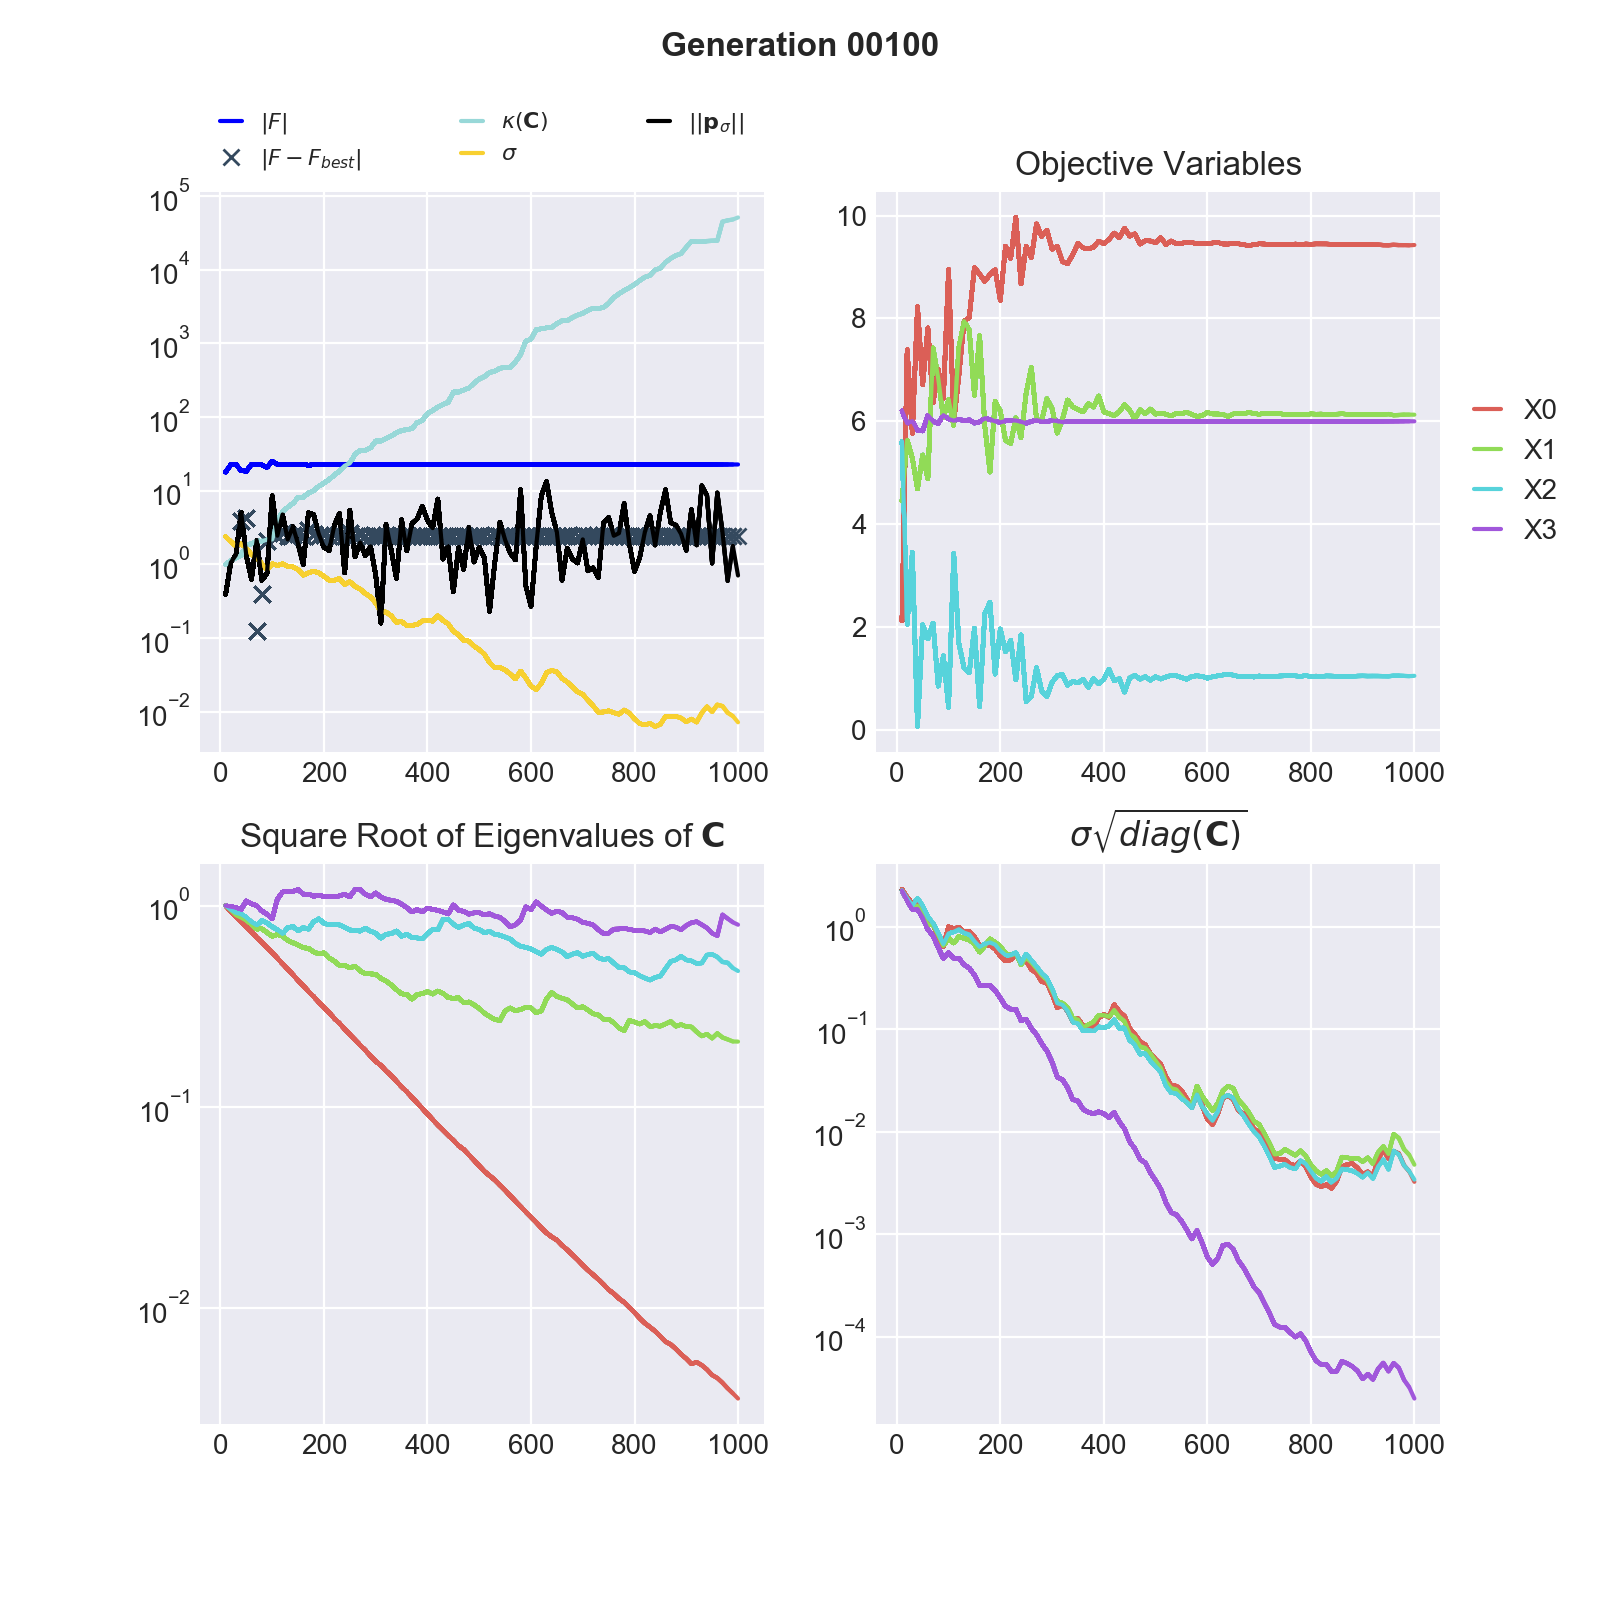
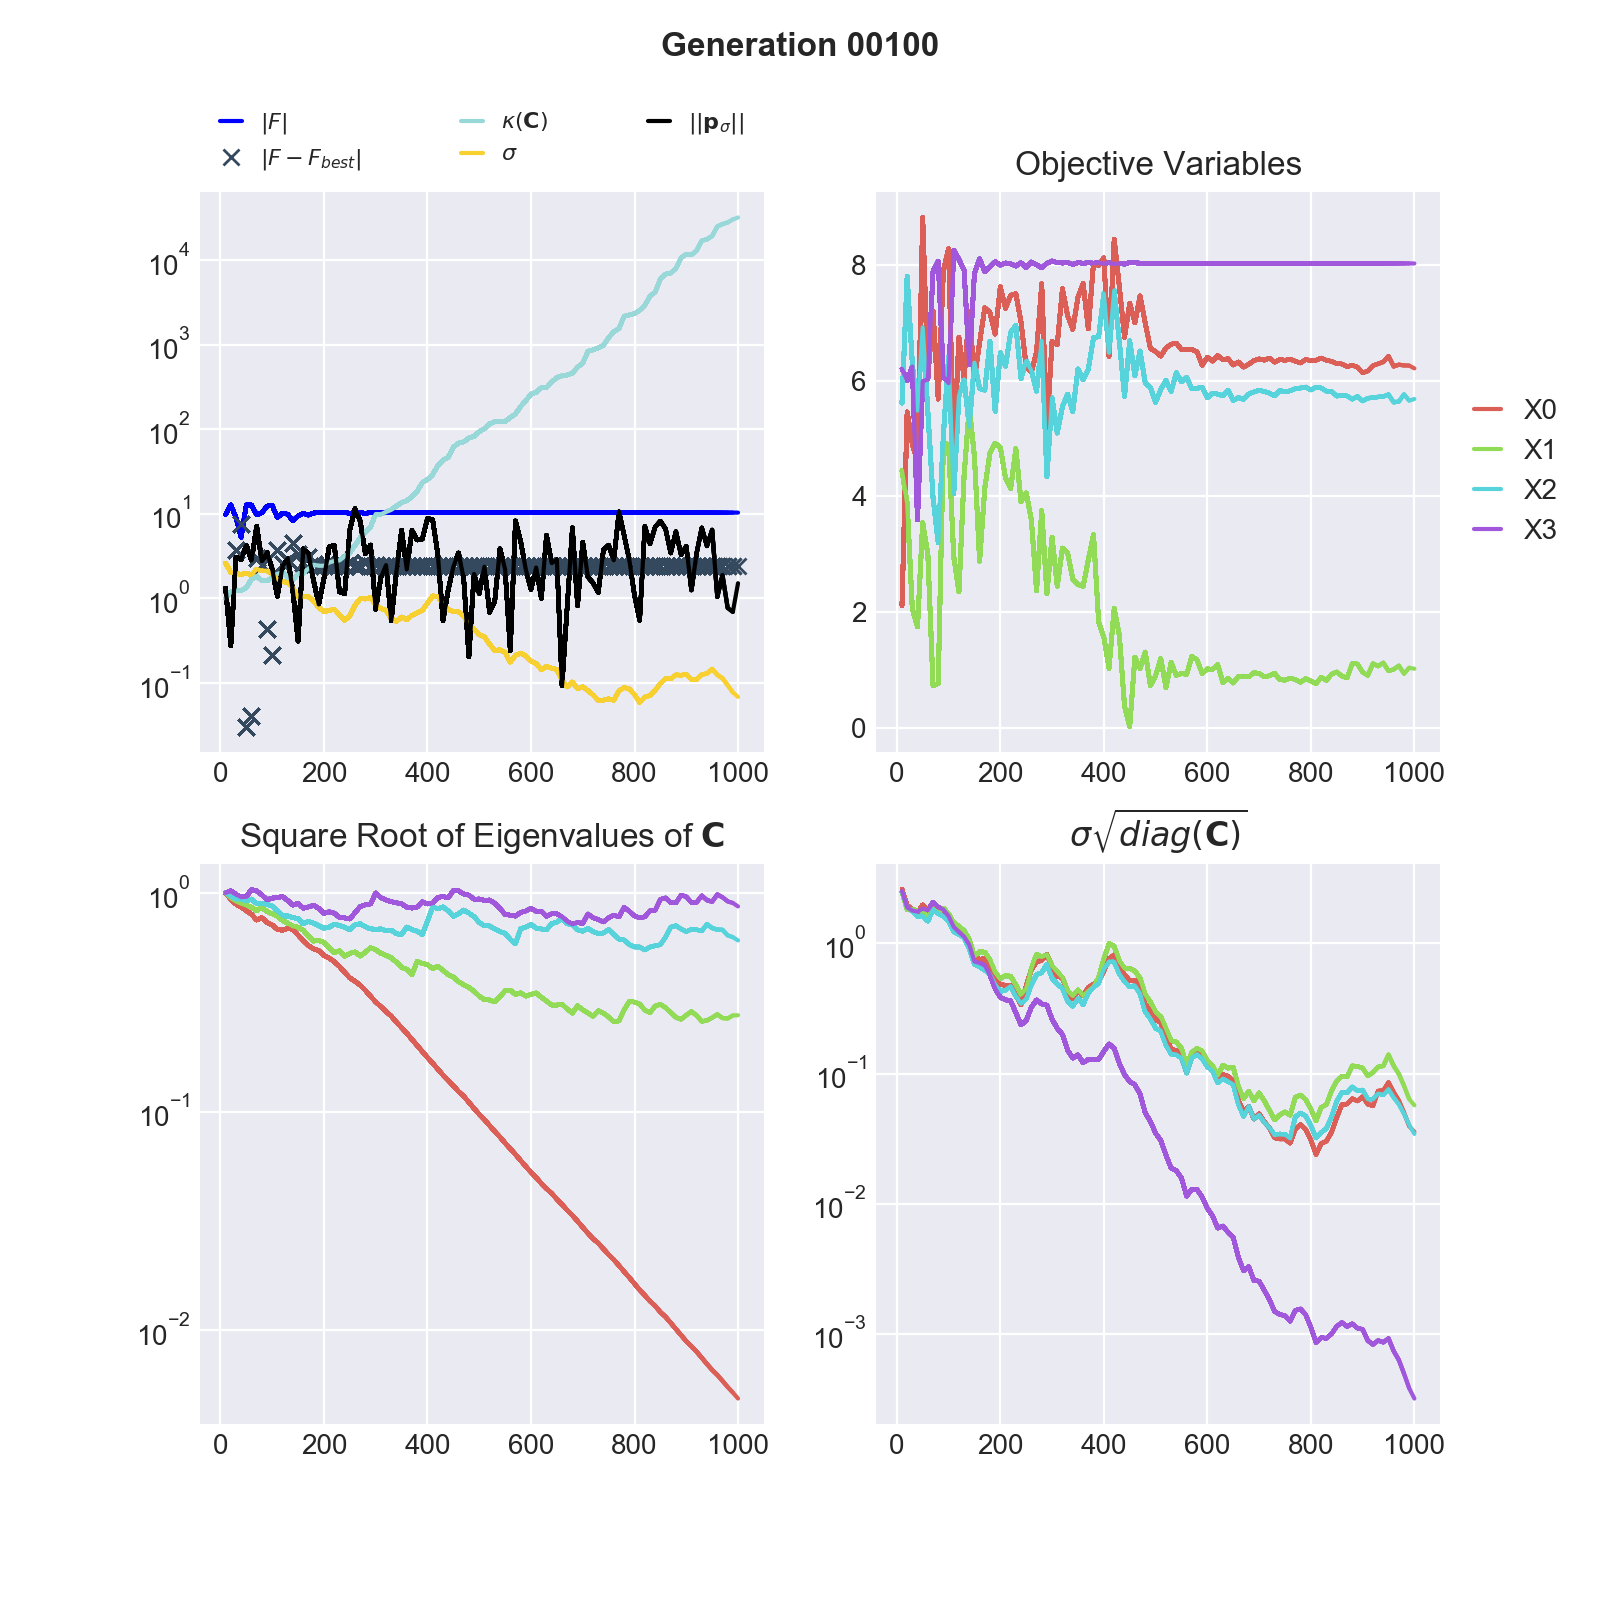
updated test functions python

diff --git a/examples/python/test_functions/model/levi13.py b/examples/python/test_functions/model/levi13.py
@@ -6,5 +6,5 @@ def m_levi13(x):
     par1 = x.getParameter(0)
     par2 = x.getParameter(1)
 
-    result = pow(math.sin(3.0*math.pi*par1),2)+pow((pars1-1.0),2)*(1.0+pow(math.sin(3*math.pi*pars2),2))+pow(pars2-1,2)*(1.0+pow(math.sin(2.0*math.pi*pars2),2))
+    result = pow(math.sin(3.0*math.pi*par1),2)+pow((par1-1.0),2)*(1.0+pow(math.sin(3*math.pi*par2),2))+pow(par2-1,2)*(1.0+pow(math.sin(2.0*math.pi*par2),2))
     x.addResult(-result)

diff --git a/examples/cxx/test_functions/models/shekel.cpp b/examples/cxx/test_functions/models/shekel.cpp
@@ -20,8 +20,8 @@ void m_shekel(std::vector<double>& pars, std::vector<double>& result)
 
  double t;
  double s = 0.0;
- for(int i = 0; i <10; ++i){
-    for(int j = 0; j < 4; ++j) t = pow( pars[j] - C[i*10+j], 2) + beta[i];
+ for(int i = 0; i < 10; ++i){
+    for(int j = 0; j < 4; ++j) t = pow( pars[j] - C[i*4+j], 2) + beta[i];
     s -= 1.0/t;
  }
 

diff --git a/examples/python/test_functions/model/shekel.py b/examples/python/test_functions/model/shekel.py
@@ -13,7 +13,8 @@ def m_shekel(x):
  
     result = 0.0
     for i in range(10) :
-        for j in range(4) : t = pow( x.getParameter(j) - C[i*10+j], 2) + beta[i]
+        for j in range(4) : 
+            t = pow( x.getParameter(j) - C[i*4+j], 2) + beta[i]
         result -= 1.0/t
 
     x.addResult(-result)

diff --git a/examples/python/test_functions/model/rosenbrock.py b/examples/python/test_functions/model/rosenbrock.py
@@ -5,7 +5,7 @@ import math
 def m_rosenbrock(x):
 
     result = 0.0
-    for i in range(4):
+    for i in range(x.getParameterCount()):
         result += 100.0*pow(x.getParameter(i+1)-x.getParameter(i),2) + pow(1.0 - x.getParameter(i),2)
 
     x.addResult(-result)
